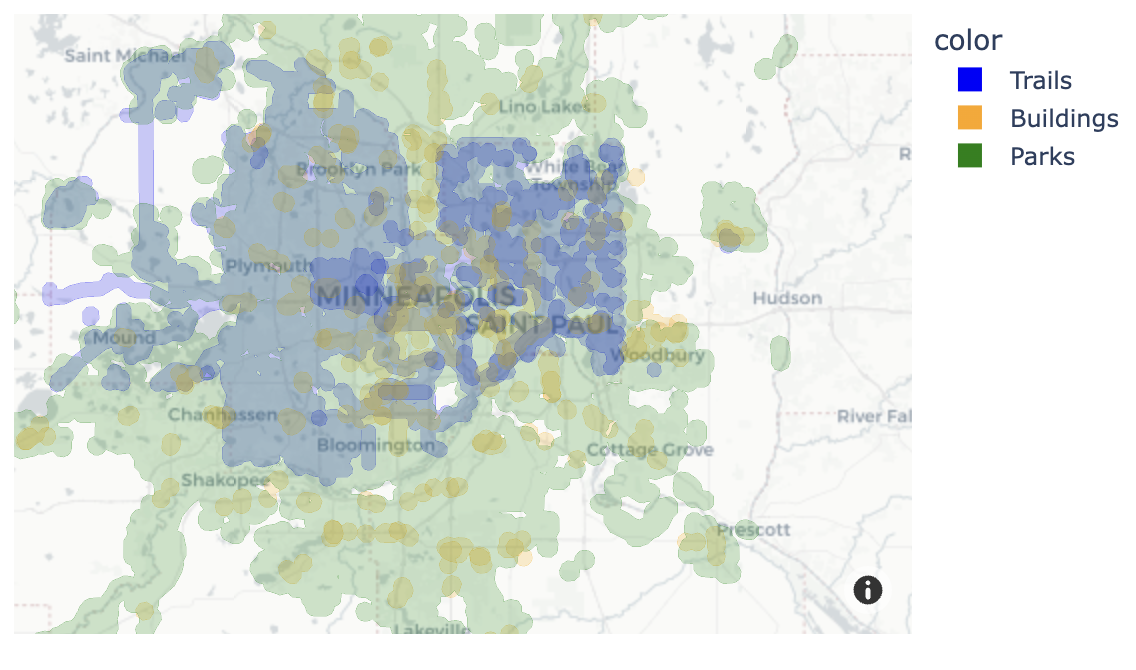
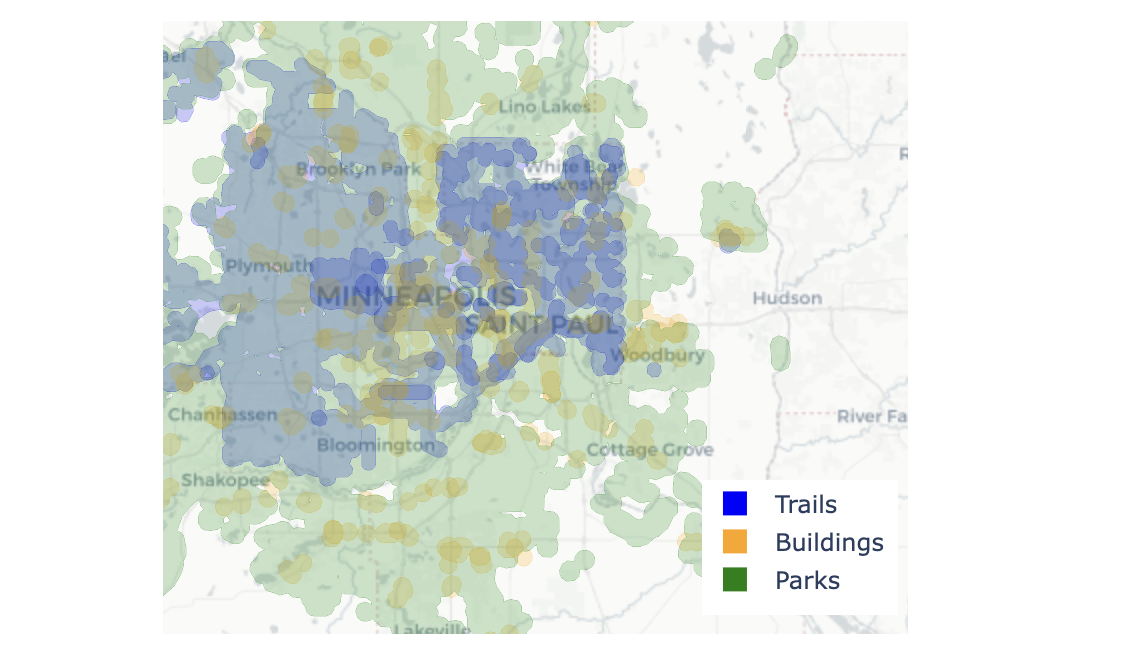
move imgs

diff --git a/_projects/1_project.md b/_projects/1_project.md
@@ -24,8 +24,8 @@ I found that the arch and horseshoe appear when a *gradient* of some sort is bei
 
 Consider for example this soil dataset, where each dot represents a soil sample taken at a different pH level. The arch is clearly evident, making samples at the ends of the pH gradient appear closer together in the plot, rather than a linear relationship we would expect!
 
-<div class="row justify-content-start">
-    <div class="col-4">
+<div class="row justify-content-sm-center">
+    <div class="col-sm mt-3 mt-md-0">
         {% include figure.html path="assets/img/hoops_lmdist_2023_before.png" title="Soil PCoA before correction" class="img-fluid rounded z-depth-1" %}
     </div>
 </div>
@@ -38,7 +38,7 @@ This got me thinking - what if the reason the arch appears with gradients is bec
 We can use graph theory and machine learning to adjust distances according to local relationships. This will keep short distances the same while making longer distances more accurate for samples at opposite ends of the gradient.
 
 <div class="row justify-content-sm-center">
-    <div class="col-sm mt-3 mt-md-0">
+    <div class="col">
         {% include figure.html path="assets/img/hoops_lmdist_2023_algorithm.png" title="Soil PCoA before correction" class="img-fluid rounded z-depth-1" %}
     </div>
 </div>
